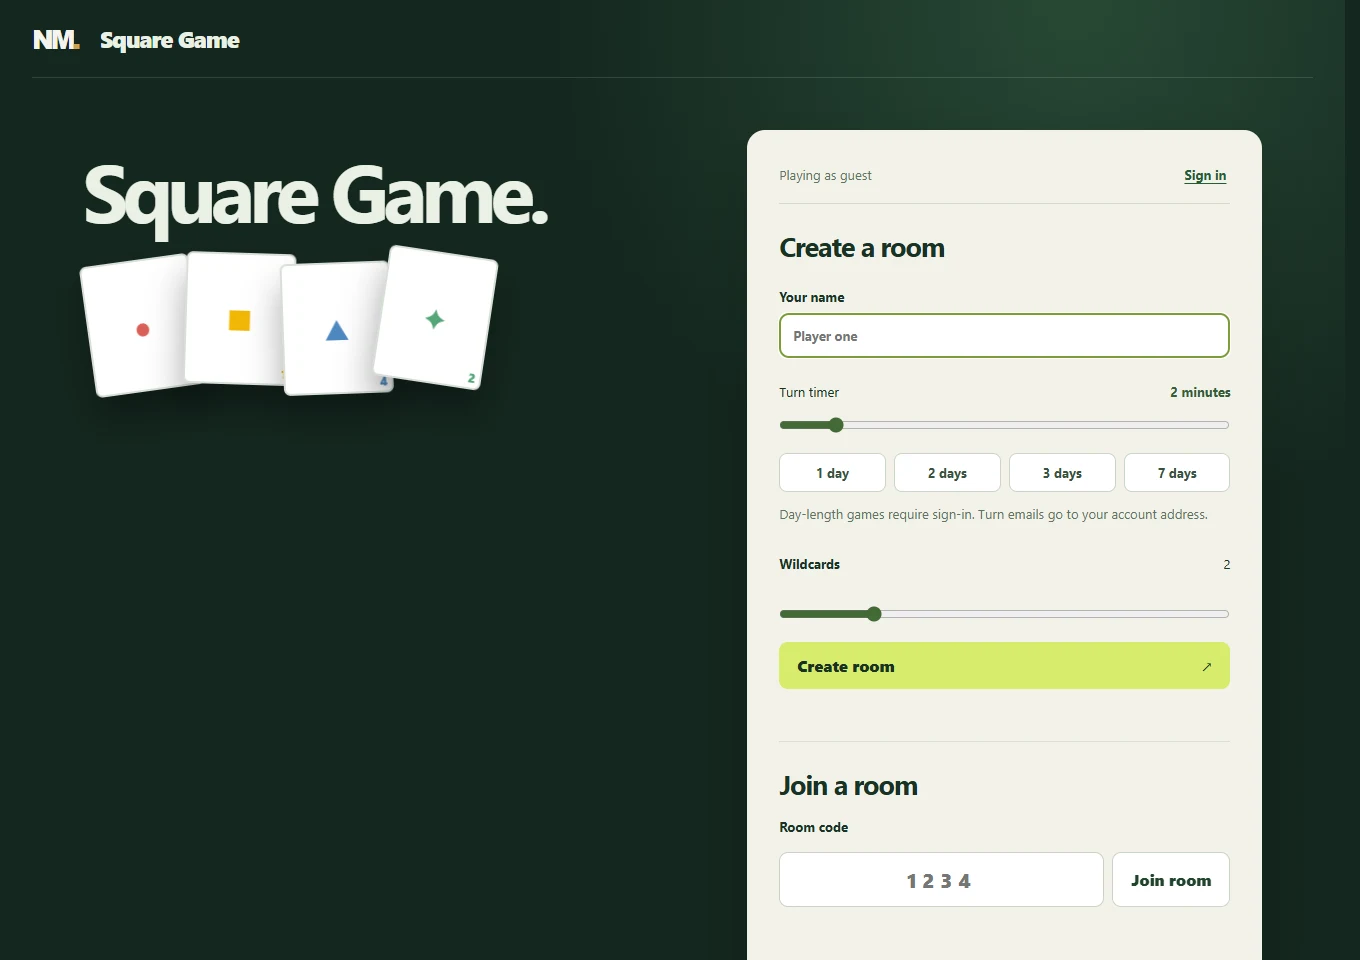
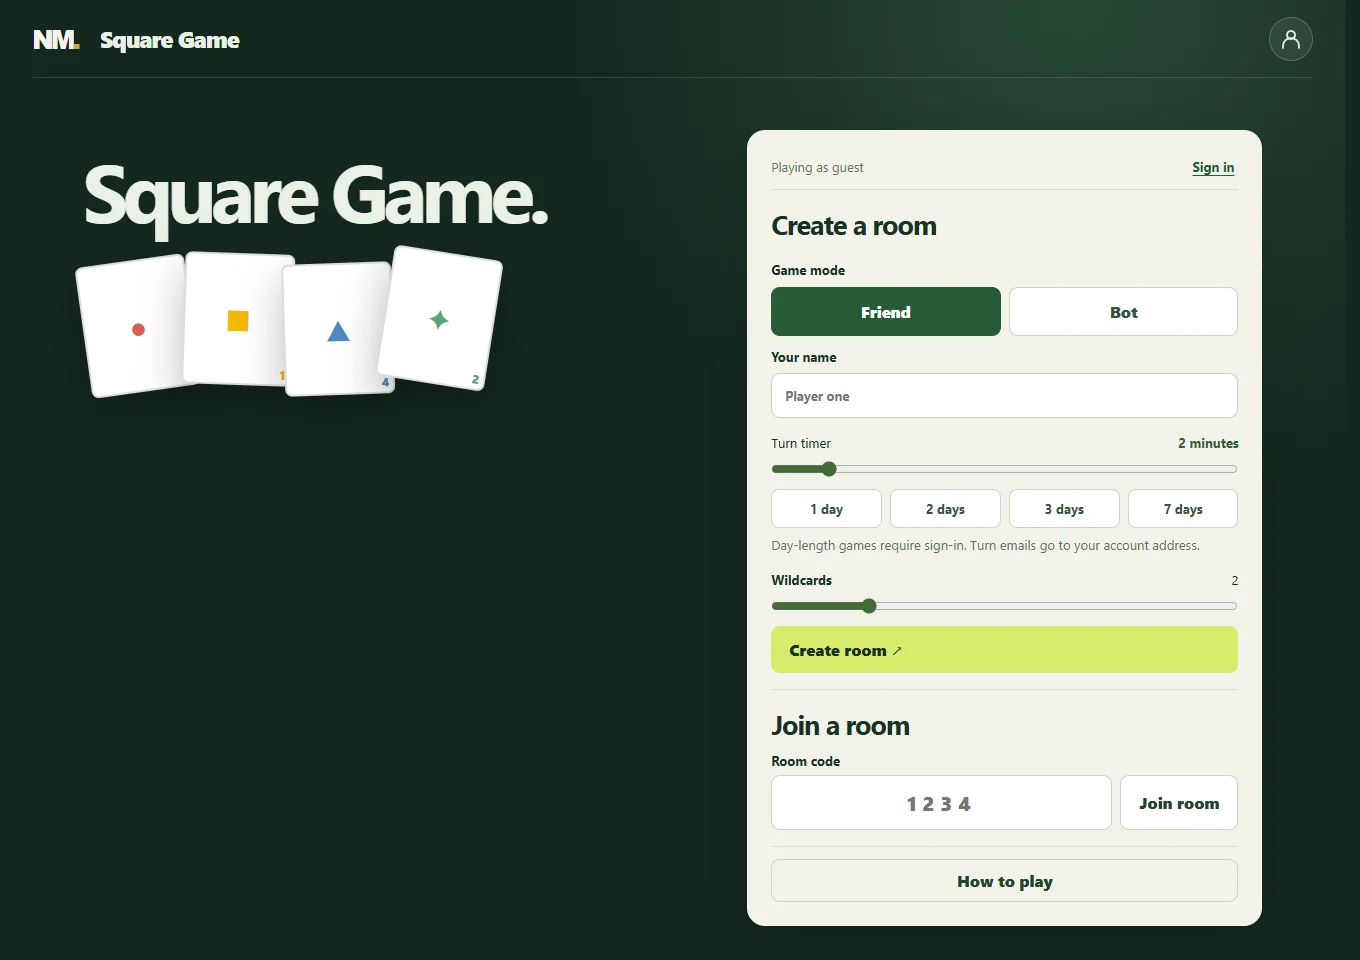
buncha stuff

diff --git a/public/index.html b/public/index.html
@@ -46,7 +46,7 @@
           <div class="section-header"><div><div class="section-label dark"><span class="label-line"></span> PROJECTS</div><h2>Things I've <em>built.</em></h2></div><a class="text-link" href="/projects">All projects <span aria-hidden="true">→</span></a></div>
           <div class="explore-grid">
             <article class="explore-card featured"><span class="card-index">01 / WEB APP</span><div class="card-icon">◈</div><h3>Lettuce: investment research tool</h3><p>Charts a company's stock price against its real earnings and dividends from SEC filings, with split detection and a five-year scenario builder. Node.js, vanilla JavaScript and SVG.</p><div class="card-link"><a href="https://app.nathanielmann.ca/app">Live demo <span aria-hidden="true">↗</span></a></div></article>
-            <article class="explore-card"><span class="card-index">02 / WEB GAME</span><div class="card-icon">□</div><h3>Square Game</h3><p>A two-player card game inspired by Iota. Create a room, share the 4-digit code and build lines of colour, shape and number. Node.js, Supabase and vanilla JavaScript.</p><div class="card-link"><a href="/square-game">Play <span aria-hidden="true">↗</span></a></div></article>
+            <article class="explore-card"><span class="card-index">02 / WEB GAME</span><div class="card-icon">□</div><h3>Square Game</h3><p>A little card game I made. Match some tiles and try to beat your friend.</p><div class="card-link"><a href="/square-game">Play <span aria-hidden="true">↗</span></a></div></article>
           </div>
         </section>
         <section class="feedback-section" id="feedback">
@@ -100,11 +100,9 @@
     <div class="project-gallery" role="region" aria-roledescription="carousel" aria-label="Lettuce gallery" data-gallery>
   <div class="gallery-slides"><figure class="gallery-slide" role="group" aria-roledescription="slide" aria-label="1 of 2">
     <img src="/images/projects/lettuce-research.webp" alt="Lettuce research dashboard with a stock price and earnings chart using sample data" width="1360" height="960" loading="lazy" decoding="async">
-    <figcaption><strong>Price meets fundamentals</strong><span>The research dashboard, shown with imported sample data.</span></figcaption>
   </figure>
 <figure class="gallery-slide" hidden role="group" aria-roledescription="slide" aria-label="2 of 2">
     <img src="/images/projects/lettuce-methodology.webp" alt="Lettuce methodology page explaining its financial calculations" width="1360" height="960" loading="lazy" decoding="async">
-    <figcaption><strong>The math behind the charts</strong><span>An open methodology for valuation, growth and returns.</span></figcaption>
   </figure></div>
   <div class="gallery-controls" hidden><button type="button" data-prev aria-label="Previous slide">←</button><span class="gallery-count" aria-live="off">1 / 2</span><button type="button" data-next aria-label="Next slide">→</button><button type="button" class="gallery-toggle" data-toggle>Pause slideshow</button></div>
 </div>
@@ -114,41 +112,33 @@
     <div class="project-gallery" role="region" aria-roledescription="carousel" aria-label="Square Game gallery" data-gallery>
   <div class="gallery-slides"><figure class="gallery-slide" role="group" aria-roledescription="slide" aria-label="1 of 1">
     <img src="/images/projects/square-game.webp" alt="Square Game guest lobby with colourful tiles and room setup controls" width="1360" height="960" loading="lazy" decoding="async">
-    <figcaption><strong>A game for two</strong><span>Create a room, choose a turn timer and invite a friend.</span></figcaption>
   </figure></div>
 
 </div>
-    <div class="project-copy"><span class="card-index">02 / WEB GAME</span><h2>Square Game</h2><p class="project-subtitle">A two-player card game inspired by Iota</p><p>Players build lines where colour, shape and number are each all the same or all different, and completing a four-card line doubles the score.</p><p>Rooms use a 4-digit code, with turn timers from one minute to seven days and email alerts for longer games.</p><p class="project-stack">Node.js · Supabase · Resend · Vanilla JavaScript</p><div class="project-links"><a class="text-link" href="/square-game">Play ↗</a></div></div>
+    <div class="project-copy"><span class="card-index">02 / WEB GAME</span><h2>Square Game</h2><p class="project-subtitle">A little card game I made</p><p>My take on Iota. Match some tiles, make lines, and try to beat your friend.</p><div class="project-links"><a class="text-link" href="/square-game">Play ↗</a></div></div>
   </article>
   <article class="project-row" id="bluey">
     <div class="project-gallery project-gallery-photos" role="region" aria-roledescription="carousel" aria-label="Bluey gallery" data-gallery>
   <div class="gallery-slides"><figure class="gallery-slide" role="group" aria-roledescription="slide" aria-label="1 of 7">
     <img src="/images/projects/bluey.webp" alt="Bluey, a Toyota 4Runner parked outside a cabin with mountains behind it" width="1050" height="1400" loading="lazy" decoding="async">
-    <figcaption><strong>Meet Bluey</strong><span>My 1995 Toyota 4Runner. Learning as I go, one repair at a time.</span></figcaption>
   </figure>
 <figure class="gallery-slide" hidden role="group" aria-roledescription="slide" aria-label="2 of 7">
     <img src="/images/projects/bluey-before.webp" alt="Steering wheel and interior covered in mold before cleaning" width="1050" height="1400" loading="lazy" decoding="async">
-    <figcaption><strong>Before the cleanup</strong><span>The interior needed a fresh start after seven years of sitting.</span></figcaption>
   </figure>
 <figure class="gallery-slide" hidden role="group" aria-roledescription="slide" aria-label="3 of 7">
     <img src="/images/projects/bluey-door.webp" alt="Rear passenger door with its trim removed and tools inside the car" width="1050" height="1400" loading="lazy" decoding="async">
-    <figcaption><strong>Taking things apart</strong><span>Door panels came off as part of the full interior refurbishment.</span></figcaption>
   </figure>
 <figure class="gallery-slide" hidden role="group" aria-roledescription="slide" aria-label="4 of 7">
     <img src="/images/projects/bluey-interior.webp" alt="View through the open tailgate into the stripped interior" width="1050" height="1400" loading="lazy" decoding="async">
-    <figcaption><strong>Stripped back</strong><span>Seats, carpet and trim removed to get into every corner.</span></figcaption>
   </figure>
 <figure class="gallery-slide" hidden role="group" aria-roledescription="slide" aria-label="5 of 7">
     <img src="/images/projects/bluey-maintenance.webp" alt="Draining fluid from underneath the 4Runner into a container" width="1400" height="1050" loading="lazy" decoding="async">
-    <figcaption><strong>Under the car</strong><span>Getting hands-on with the maintenance myself.</span></figcaption>
   </figure>
 <figure class="gallery-slide" hidden role="group" aria-roledescription="slide" aria-label="6 of 7">
     <img src="/images/projects/bluey-tailgate.webp" alt="Close-up of rusted components inside the tailgate window assembly" width="1400" height="1050" loading="lazy" decoding="async">
-    <figcaption><strong>Finding the problem</strong><span>Rusted window supports were behind the unreliable tailgate window.</span></figcaption>
   </figure>
 <figure class="gallery-slide" hidden role="group" aria-roledescription="slide" aria-label="7 of 7">
     <video width="720" height="1280" controls playsinline preload="none" poster="/images/projects/bluey-video.webp" aria-label="Video of Bluey’s tailgate window assembly"><source src="/videos/bluey-tailgate.mp4" type="video/mp4">Your browser does not support embedded video. <a href="/videos/bluey-tailgate.mp4">Watch the video</a>.</video>
-    <figcaption><strong>Inside the tailgate · video</strong><span>A closer look at the window assembly. Press play to watch.</span></figcaption>
   </figure></div>
   <div class="gallery-controls" hidden><button type="button" data-prev aria-label="Previous slide">←</button><span class="gallery-count" aria-live="off">1 / 7</span><button type="button" data-next aria-label="Next slide">→</button><button type="button" class="gallery-toggle" data-toggle>Pause slideshow</button></div>
 </div>
